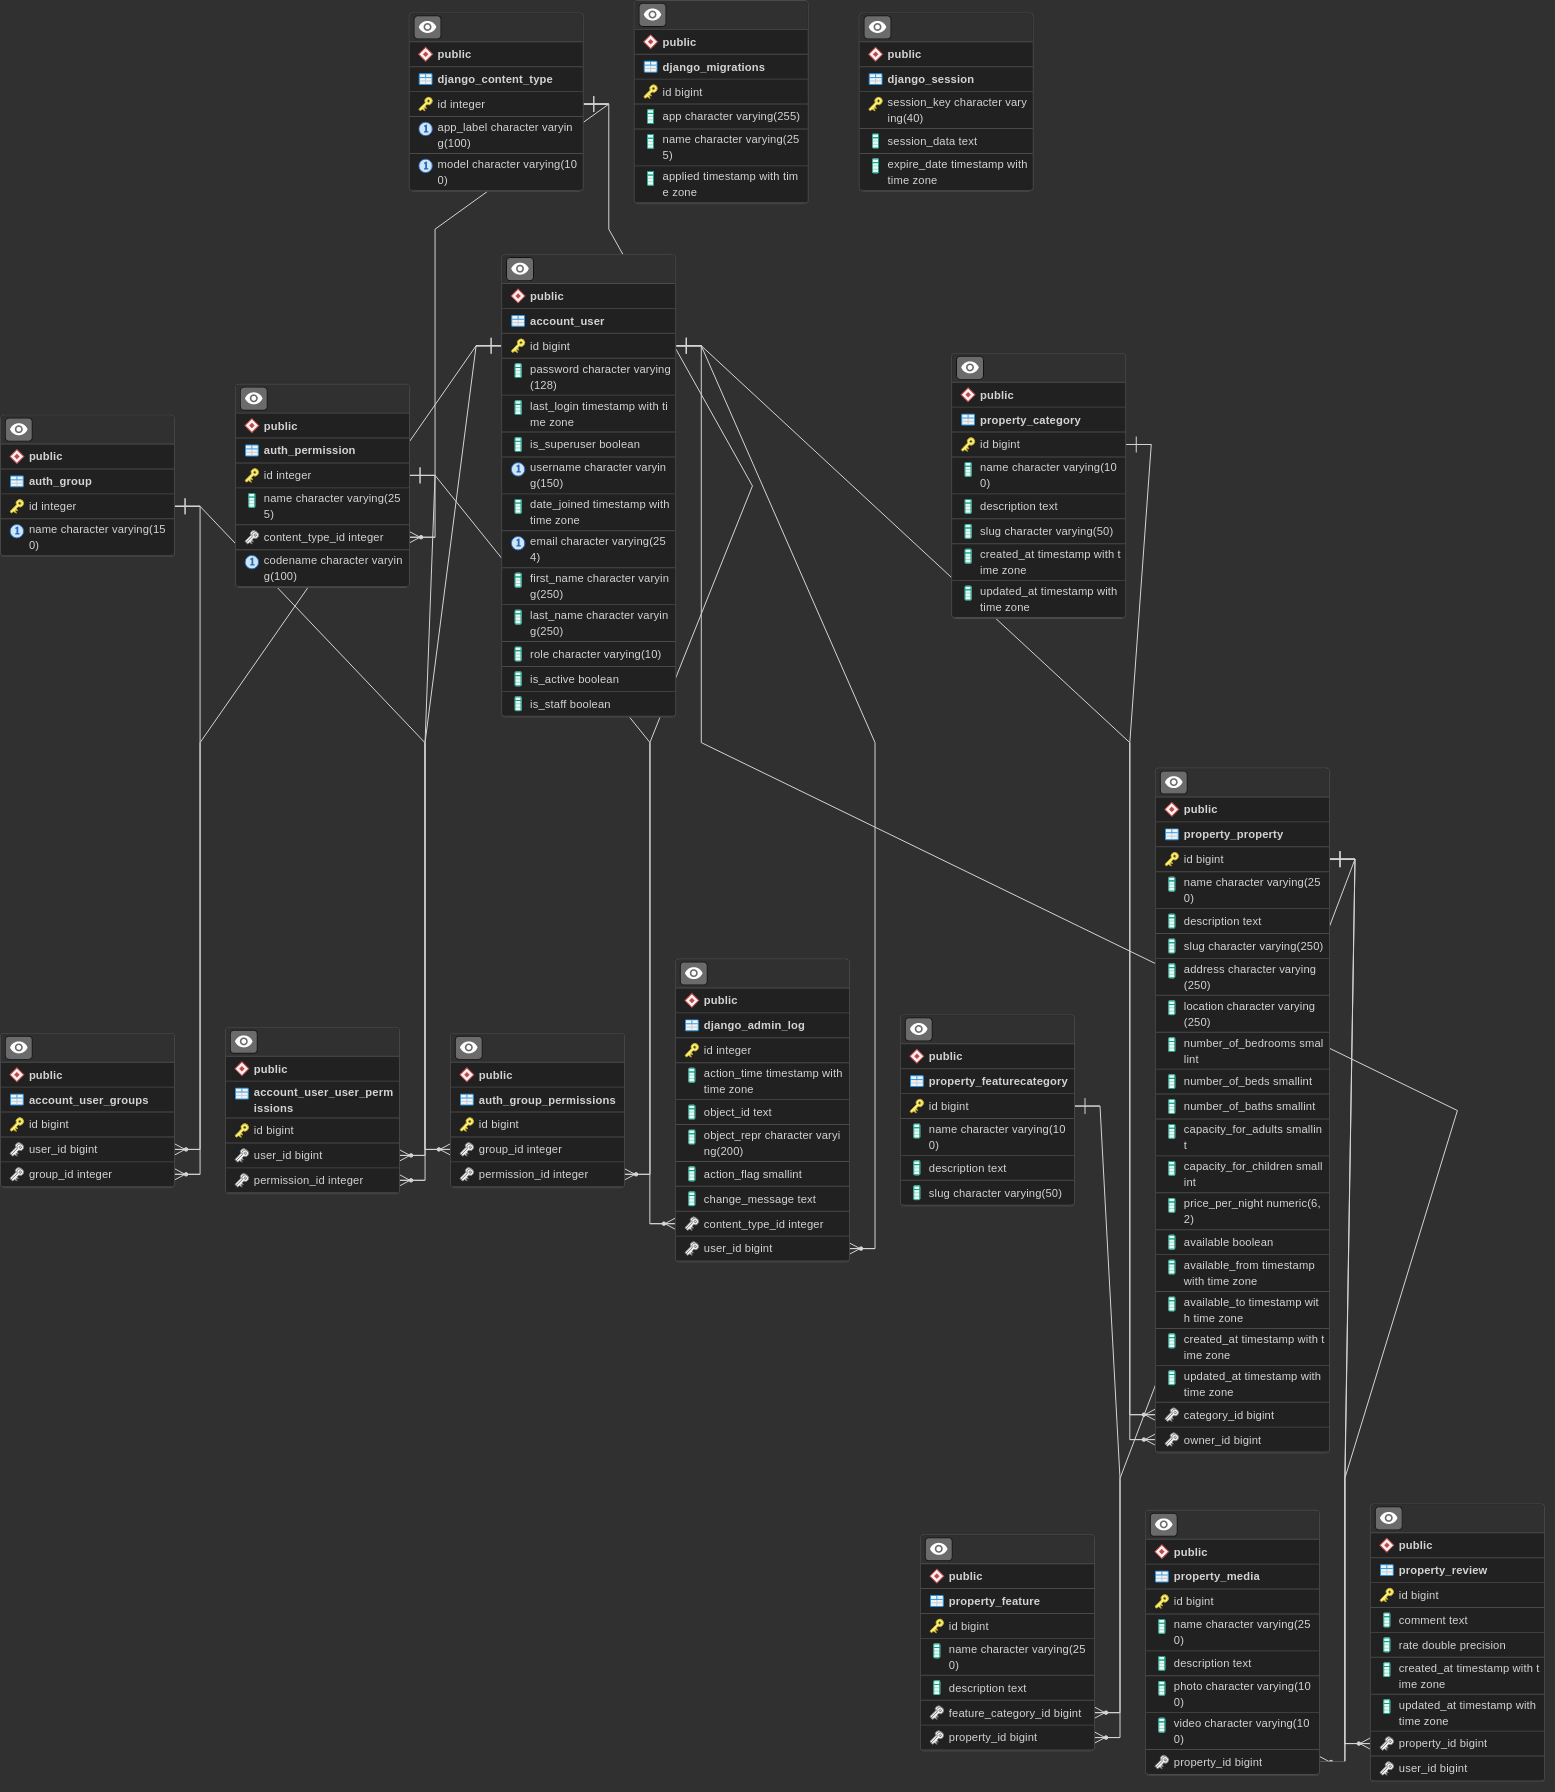
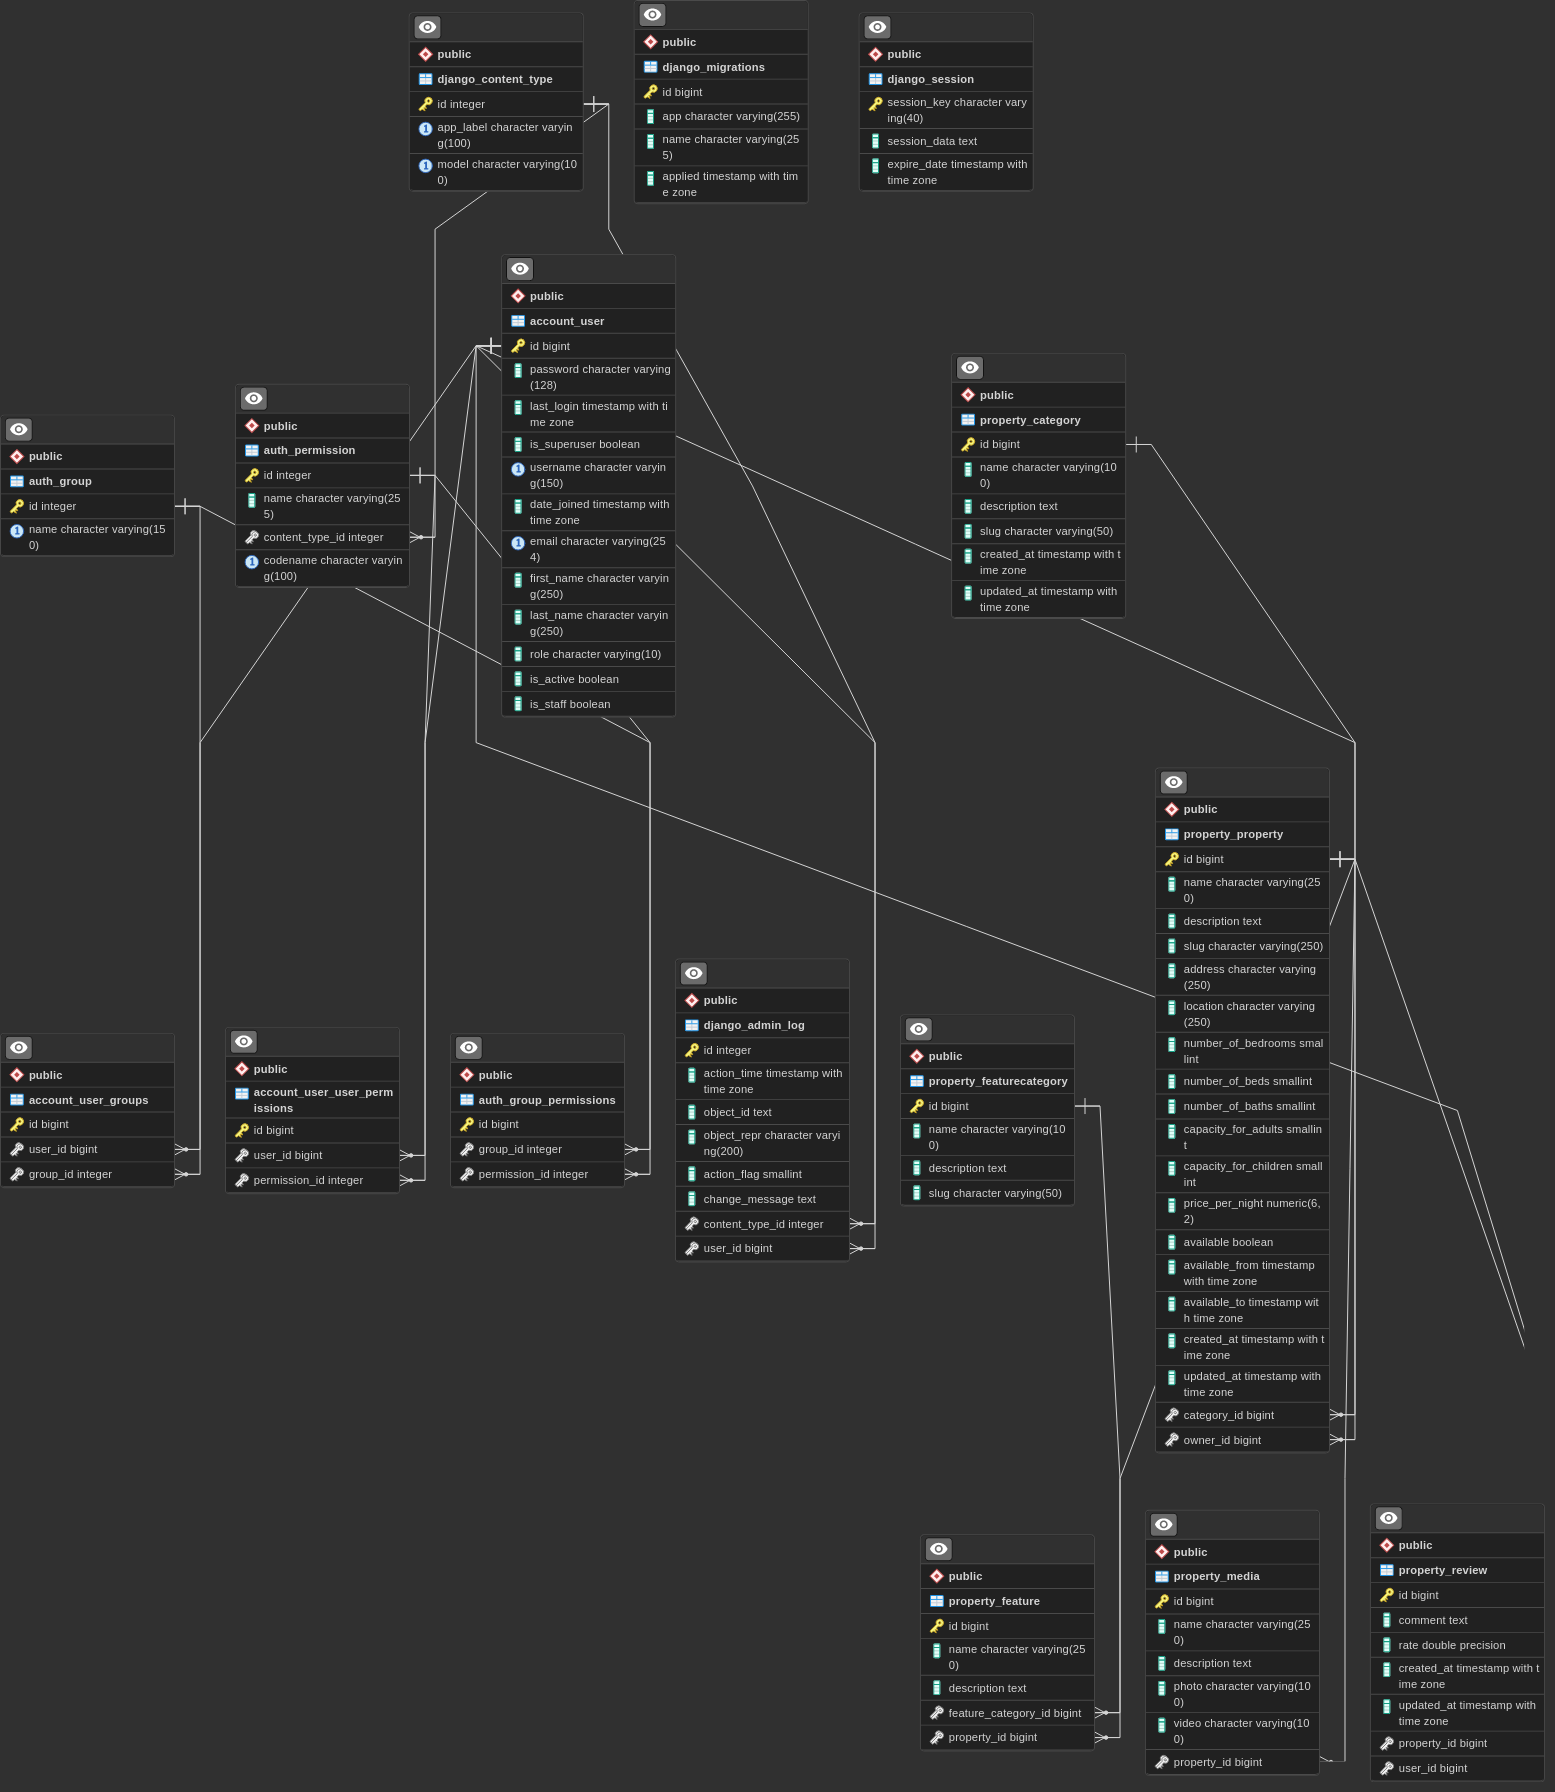
Create feature api endpoint

Changed region(s): [[0.8643, 0.75, 0.8952, 0.8125], [0.8643, 0.5938, 0.8952, 0.625], [0.4322, 0.1875, 0.463, 0.2188]]

diff --git a/property/serializers.py b/property/serializers.py
@@ -34,6 +34,11 @@ class ReviewSerializer(serializers.ModelSerializer):
         fields = ['id', 'comment', 'rate', 'user']
 
     def validate(self, attrs):
+        """
+        Custom validation to allow user review a property once only
+        :param attrs:
+        :return:
+        """
         property_id = self.context['property_id']
         user = attrs['user']
         if Review.objects.filter(property_id=property_id, user=user).exists():
@@ -42,12 +47,31 @@ class ReviewSerializer(serializers.ModelSerializer):
 
     def create(self, validated_data):
         """
-        Override create method to allow nested route for media in property api endpoint
+        Override create method to allow nested route for review in property api endpoint
         :param validated_data:
         :return:
         """
         property_id = self.context['property_id']
         return Review.objects.create(property_id=property_id, **validated_data)
+
+
+class FeatureSerializer(serializers.ModelSerializer):
+    """
+    Create serializer for feature model
+    """
+
+    class Meta():
+        model = Feature
+        fields = ['id', 'name', 'description', 'feature_category']
+
+    def create(self, validated_data):
+        """
+        Override create method to allow nested route for feature in property api endpoint
+        :param validated_data:
+        :return:
+        """
+        property_id = self.context['property_id']
+        return Feature.objects.create(property_id=property_id, **validated_data)
 
 
 class CategorySerializer(serializers.ModelSerializer):
@@ -89,13 +113,16 @@ class PropertySerializer(serializers.ModelSerializer):
         fields = ['id', 'name', 'description', 'slug', 'owner', 'category', 'address', 'location',
                   'number_of_bedrooms', 'number_of_beds', 'number_of_baths', 'capacity_for_adults',
                   'capacity_for_children', 'price_per_night', 'available', 'available_from', 'available_to',
-                  'average_rate', 'media', 'reviews']
+                  'average_rate', 'media', 'reviews', 'features']
 
     # Display property media
     media = MediaSerializer(many=True, read_only=True)
 
     # Display property reviews
     reviews = ReviewSerializer(many=True, read_only=True)
+
+    # Display property features
+    features = FeatureSerializer(many=True, read_only=True)
 
     # Custom field for average review rate
     average_rate = serializers.SerializerMethodField(method_name='get_average_rate')
@@ -111,4 +138,4 @@ class FeatureCategorySerializer(serializers.ModelSerializer):
 
     class Meta():
         model = FeatureCategory
-        fields = ['name', 'description', 'slug']
+        fields = ['id', 'name', 'description', 'slug']

diff --git a/property/views.py b/property/views.py
@@ -5,7 +5,7 @@ from rest_framework.viewsets import ModelViewSet, GenericViewSet
 from rest_framework.filters import SearchFilter, OrderingFilter
 from property.models import Property, Category, Media, Feature, FeatureCategory, Review
 from property.serializers import PropertySerializer, CategorySerializer, MediaSerializer, ReviewSerializer, \
-    FeatureCategorySerializer
+    FeatureCategorySerializer, FeatureSerializer
 from property.permissions import CanAddOrUpdateProperty, AdminOnlyActions
 
 
@@ -60,7 +60,7 @@ class CategoryViewSet(ModelViewSet):
     # Add sorting filter fields
     ordering_fields = ['name']
 
-    # Set custom permission class
+    # Set permission classes
     permission_classes = [IsAuthenticated, AdminOnlyActions]
 
     def get_queryset(self):
@@ -89,7 +89,7 @@ class MediaViewSet(ModelViewSet):
     """
     Create media view set for media model
     """
-    # Set custom permission class
+    # Set  permission classes
     permission_classes = [IsAuthenticated, CanAddOrUpdateProperty]
 
     def get_queryset(self):
@@ -118,6 +118,7 @@ class ReviewViewSet(ModelViewSet):
     """
     Create review view set for review model
     """
+    # Set permission classes
     permission_classes = [IsAuthenticated]
 
     def get_queryset(self):
@@ -146,7 +147,7 @@ class FeatureCategoryViewSet(ModelViewSet):
     """
     Create feature category view set for feature category model
     """
-    # Set custom permission class
+    # Set permission classes
     permission_classes = [IsAuthenticated, AdminOnlyActions]
 
     def get_queryset(self):
@@ -169,3 +170,32 @@ class FeatureCategoryViewSet(ModelViewSet):
         :return:
         """
         return {'request': self.request}
+
+
+class FeatureViewSet(ModelViewSet):
+    """
+    Create feature view set for feature model
+    """
+    # Set permission classes
+    permission_classes = [IsAuthenticated, CanAddOrUpdateProperty]
+
+    def get_queryset(self):
+        """
+        Define feature api queryset
+        :return:
+        """
+        return Feature.objects.select_related('property').filter(property_id=self.kwargs.get('property_pk'))
+
+    def get_serializer_class(self):
+        """
+        Define feature api serializer
+        :return:
+        """
+        return FeatureSerializer
+
+    def get_serializer_context(self):
+        """
+        Define feature api context
+        :return:
+        """
+        return {'request': self.request, 'property_id': self.kwargs.get('property_pk')}

diff --git a/property/urls.py b/property/urls.py
@@ -12,6 +12,7 @@ router.register('feature-categories', views.FeatureCategoryViewSet, basename='fe
 property_router = routers.NestedDefaultRouter(router, 'properties', lookup='property')
 property_router.register('media', views.MediaViewSet, basename='property-media')
 property_router.register('reviews', views.ReviewViewSet, basename='property-reviews')
+property_router.register('features', views.FeatureViewSet, basename='property-features')
 
 urlpatterns = [
     # Include view set routers
